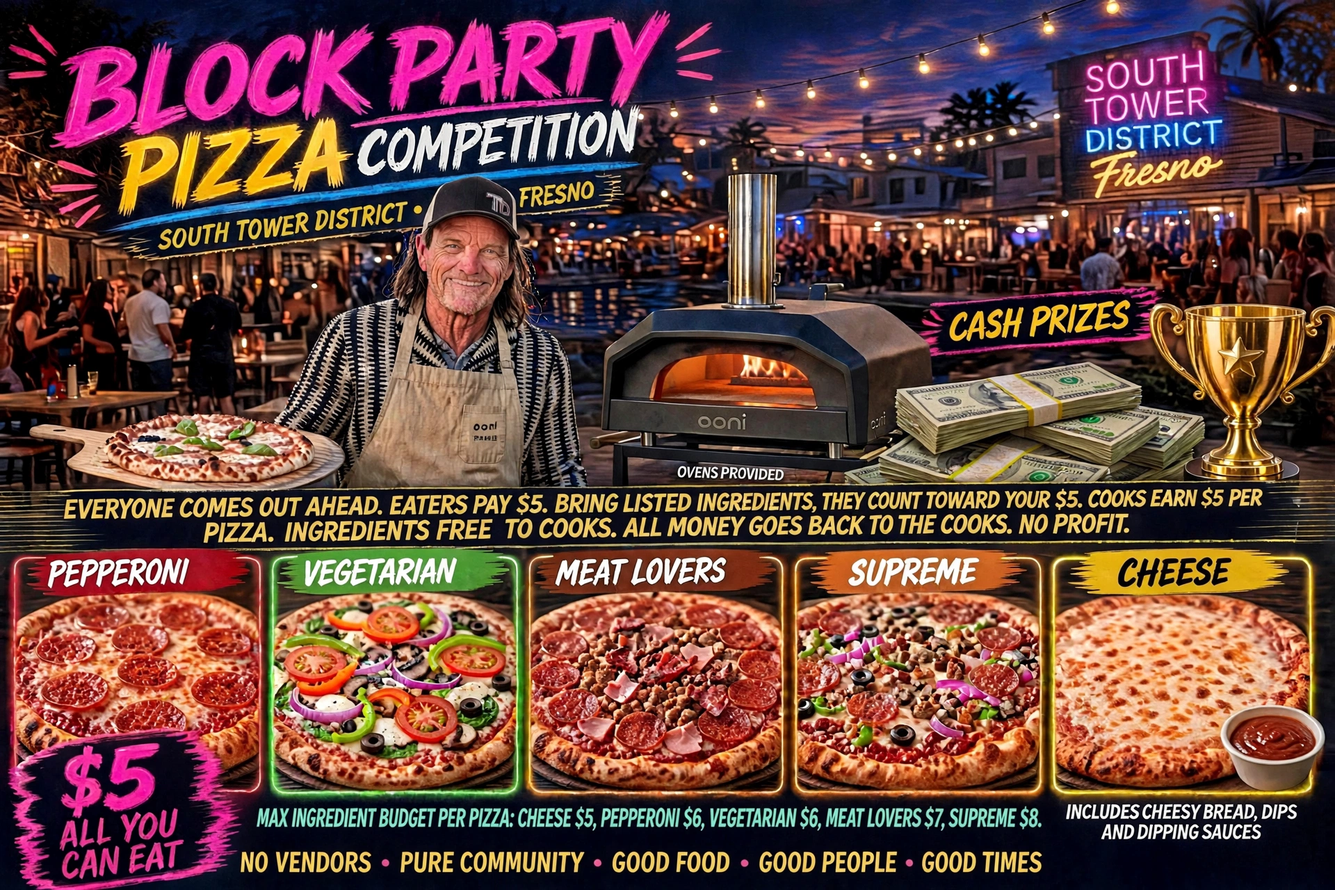
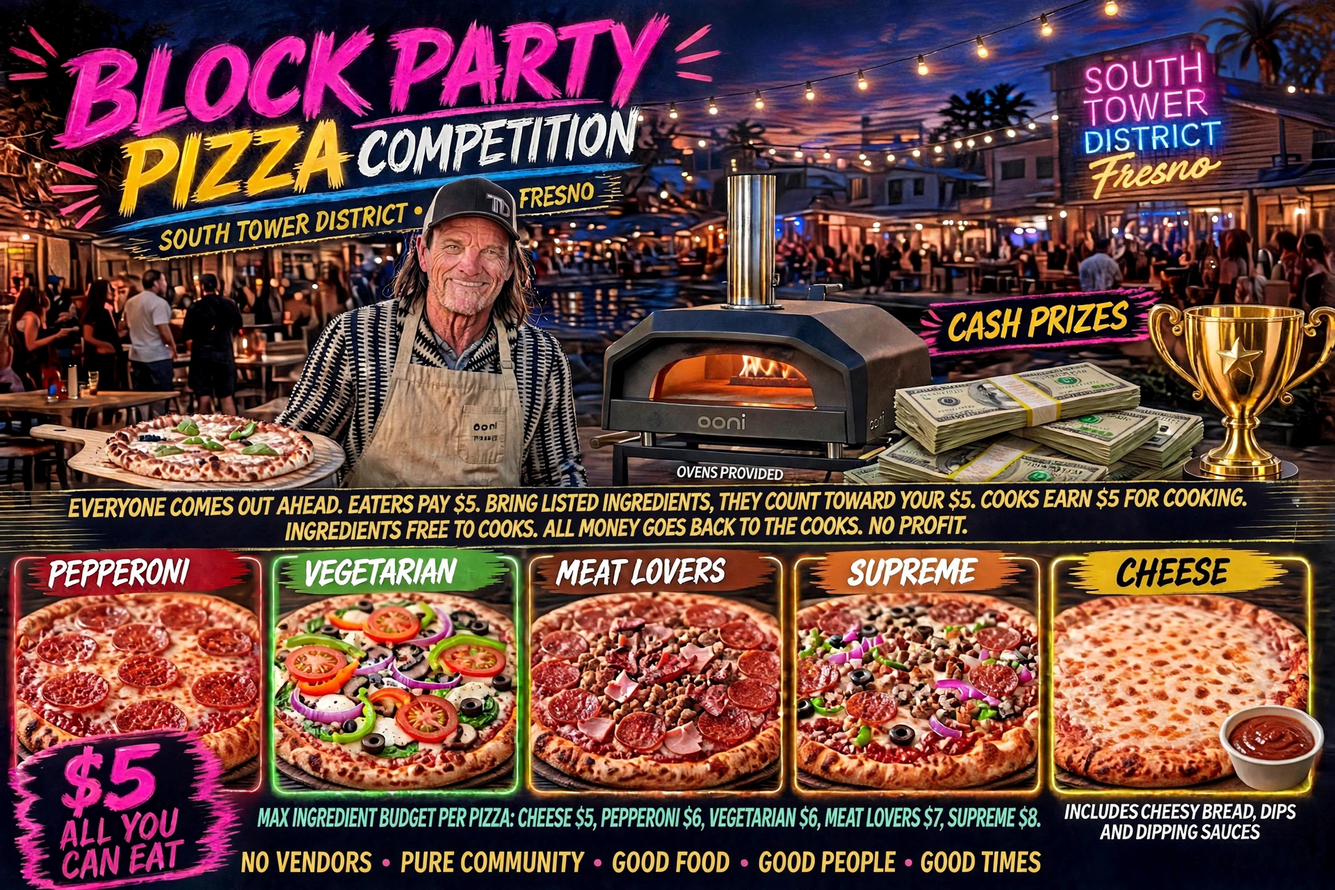
iSH

Changed region(s): [[0.0, 0.0, 1.0, 1.0], [0.0312, 0.4062, 0.0625, 0.4688], [0.3438, 0.4688, 0.375, 0.5]]

diff --git a/AGREEMENT.md b/AGREEMENT.md
@@ -1,7 +1,7 @@
 BLOCK PARTY PIZZA COMPETITION, COOK AGREEMENT
 
 1. Cooking is free. Ovens are provided. Ingredients are provided free by the nonprofit organization. A cook invests time only.
-2. Cooks are paid $5 per pizza cooked, for labor, independently of any prizes.
+2. Each person who cooks one or more pizzas is paid $5 for labor, independently of any prizes. The per-pizza labor rate is variable: $5 divided by the number of pizzas that cook makes for the event. For example, a cook making five pizzas earns $1 per pizza; a cook making ten pizzas earns $0.50 per pizza. The rate is a function of how many cooks and how many eaters there are, set so a cook cooking enough pizza for the event earns $5.
 3. Category ingredient budgets are maximum ingredient costs per pizza, not prices: Cheese $5, Pepperoni $6, Vegetarian $6, Meat Lovers $7, Supreme $8. Meat Lovers is a proposed value for confirmation. Eaters always pay $5 all you can eat.
 4. A competition pizza must stay within its category budget. Exceeding the budget is not playing fair, and the pizza is not eligible for competition.
 5. Cooks may make any size pizza within the budget. Target size is 14 to 16 inches, undecided. Size versus ingredient quality is part of the competition: within the same budget, a bigger pizza or finer ingredients is a choice judges may reward either way.
@@ -21,3 +21,10 @@ BLOCK PARTY PIZZA COMPETITION, COOK AGREEMENT
 19. Each slice that is eaten counts with equal weight toward the pizza's judgment. A slice that is not eaten does not receive a zero value; it simply reduces the numerator by one, so the pizza is judged only on the slices actually eaten.
 20. Each slice is worth about $1, give or take. A whole pizza of six slices is worth about $6, so a $5 eater who eats a whole pizza comes out ahead.
 21. Eating more than average is balanced socially: throw extra cash into ingredients, have a friend who eats less, or simply be OK eating more than average. If everyone comes up short and wants more pizza than there is, scale everything up to keep everybody happy.
+22. Participants RSVP in the app. Cooks RSVP as Cooks. Anyone bringing ingredients RSVPs against a cook's ingredient list.
+23. Cooks eat for free.
+24. A cook who brings ingredients is reimbursed for them at their listed value.
+25. An eater may eat for free by bringing necessary ingredients from a cook's list, credited at listed value up to the $5.
+26. Each cook's list states, per item, the credited value (which may be per ounce or per unit), any minimum quality or brand requirement, and where the item must be purchased to gain credit. If a cook states no brand requirement, any brand qualifies. A cook may be picky about brands, for example excluding a store brand; a cook who is not picky may accept cupboard items and improvise with them, which is part of the skill.
+27. Ingredients are valued at the time they are brought to the table, by barcode scan in the app, which determines both the credited value and whether the item qualifies at all. Items must not be expired. Cupboard items qualify when they match a listed item. This is what keeps the system fair: nobody gains by bringing something the cook cannot use, and the cook is never made to take an unfair deal.
+28. To keep it simple, there is a single frame of reference for value: Walmart prices, entered into the app at the beginning from the Walmart app, manually or automated; the entry method does not matter. The Walmart price is the credited value for an item regardless of where it was purchased. If a person paid more than the Walmart price, they do not receive full credit; they receive the Walmart price. If a person found the item cheaper than Walmart, they may keep the margin; monetizing the margin is allowed. The exception is items that cannot be found at Walmart, such as the dough, which is listed from its neighborhood source.

diff --git a/README.md b/README.md
@@ -16,8 +16,13 @@ Eaters pay **$5, all you can eat**. That is the only price in the event.
 
 - Cooking is free. Ovens are provided by Aaron. Ingredients are provided
   free by the nonprofit organization. A cook invests time only.
-- Cooks are paid **$5 per pizza cooked**, for labor, independently of any
-  prizes.
+- Each person who cooks one or more pizzas is paid **$5 for labor**,
+  independently of any prizes. The per-pizza labor rate is variable: $5
+  divided by the number of pizzas that cook makes for the event. A cook
+  making five pizzas earns $1 per pizza; a cook making ten pizzas earns
+  $0.50 per pizza. The rate is a function of how many cooks and how many
+  eaters there are, set so a cook cooking enough pizza for the event
+  earns $5.
 - Eaters and ingredient-bringers contribute at least **$5 net**: cash,
   listed ingredients, or both.
 - The app publishes the necessary ingredients list with a value per item.
@@ -85,6 +90,38 @@ dough.
   ingredients, a friend who eats less, or simply being OK with eating more
   than average. If everyone comes up short, scale everything up to keep
   everybody happy.
+
+## App and ingredients
+
+- Participants RSVP in the app. Cooks RSVP as Cooks; anyone bringing
+  ingredients RSVPs against a cook's ingredient list.
+- **Cooks eat for free.** A cook who brings ingredients is reimbursed for
+  them at their listed value.
+- An eater may eat for free by bringing necessary ingredients from a
+  cook's list, credited at listed value up to the $5.
+- Each cook's list states, per item, the credited value (which may be per
+  ounce or per unit), any minimum quality or brand requirement, and where
+  the item must be purchased to gain credit. If a cook states no brand
+  requirement, any brand qualifies. A picky cook may exclude a brand; a
+  cook who is not picky may accept cupboard items and improvise with
+  them, which is part of the skill.
+- Ingredients are valued at the time they are brought to the table, by
+  barcode scan in the app, which determines both the credited value and
+  whether the item qualifies at all. Items must not be expired. Cupboard
+  items qualify when they match a listed item. Nothing in the design
+  encourages anyone to break the law: cupboard contributions are things
+  the person already has and that are not expired, and benefit purchases
+  are the person's own lawful purchases.
+- To keep it simple, there is a single frame of reference for value:
+  Walmart prices, entered into the app at the beginning from the Walmart
+  app, manually or automated; the entry method does not matter. The
+  Walmart price is the credited value for an item regardless of where it
+  was purchased. If a person paid more than the Walmart price, they do
+  not receive full credit; they receive the Walmart price. If a person
+  found the item cheaper than Walmart, they may keep the margin;
+  monetizing the margin is allowed. The exception is items that cannot
+  be found at Walmart, such as the dough, which is listed from its
+  neighborhood source.
 
 ## Open items
 
